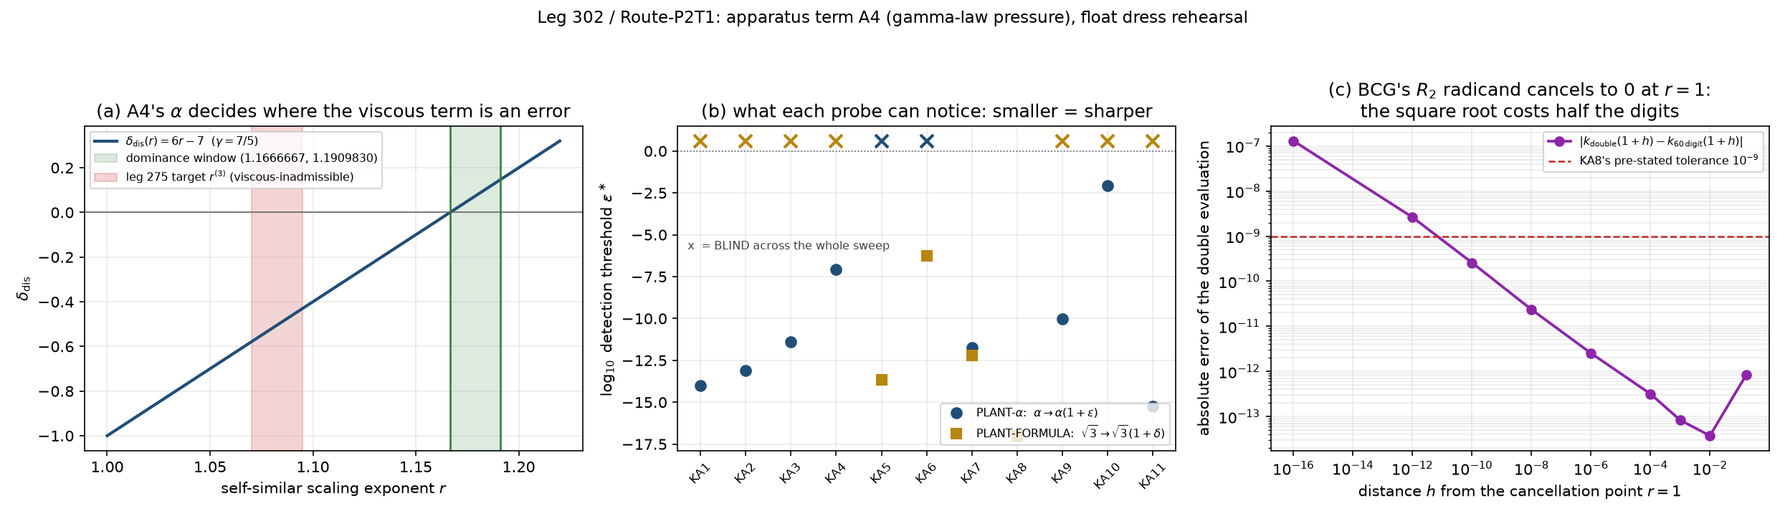
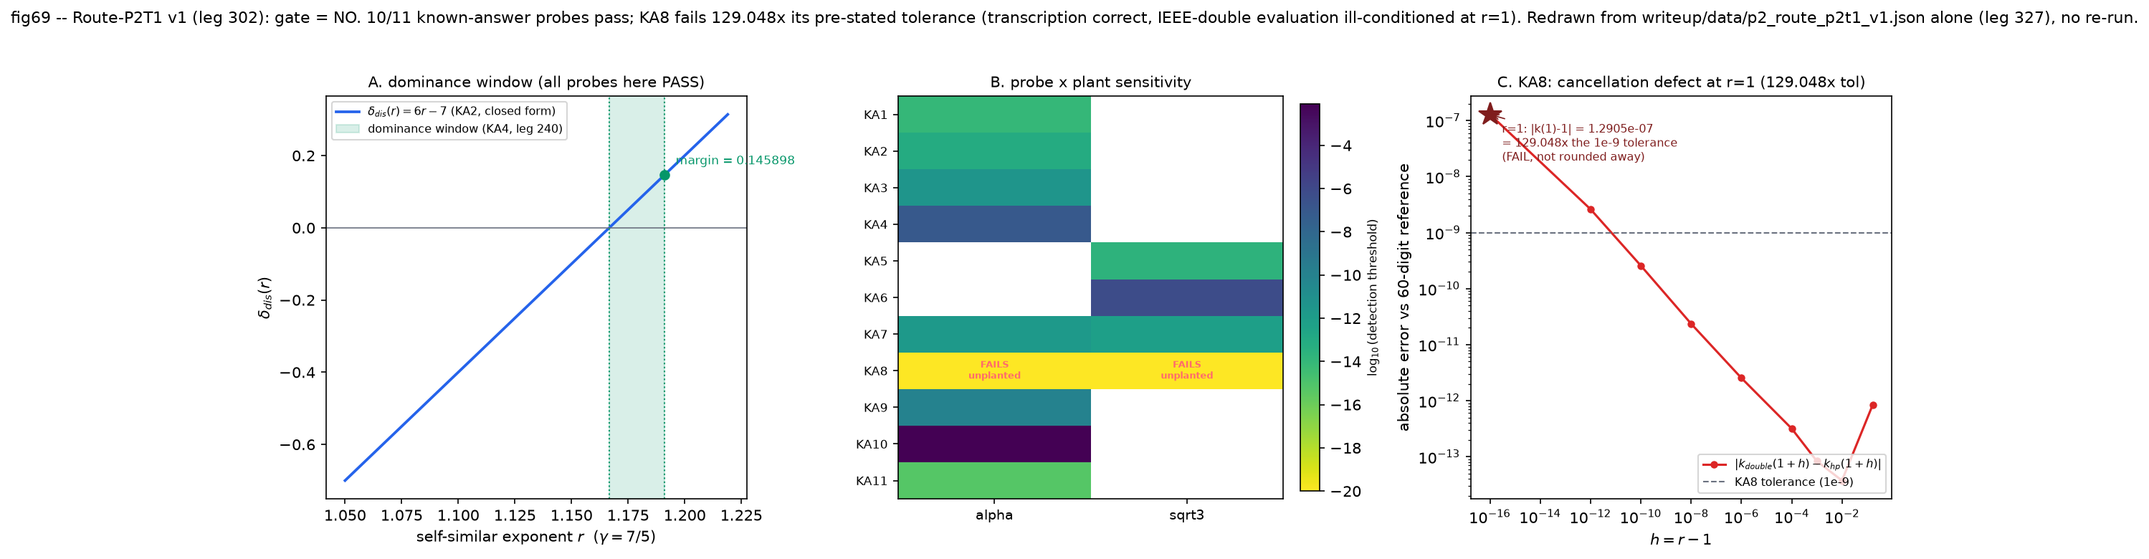
Leg 327: LEG — Route-P2T1E: evidence script for leg 302's fig69, from curated JSON, no re-run
Gate: YES. writeup/build_figures.py itself named this debt: leg 302's runner emits
fig69 only under --figure and exits nonzero because its own gate answered NO, so it
fails an unconditional shared/CI rebuild. New standalone
experiments/p2_route_p2t1_v1_evidence.py redraws fig69 from
writeup/data/p2_route_p2t1_v1.json alone (no re-run, byte-identical across reruns,
5/5 self-checks), with KA8's failure — 129.048x its own 1e-9 tolerance,
|k(1)-1| = 1.2904784973954975e-07 — printed on the figure itself at its measured
magnitude, not smoothed or rounded away. Panel A's closed-form line delta_dis(r) =
6r-7 is drawn from probe KA2's already-verified closed form, checked in-script
against the JSON's own banked window endpoints (self-check G5), not recomputed.

Registered the script additively in build_figures.py's P2_EVIDENCE list (matching
every other standalone *_evidence.py entry there) and updated the comment that had
explained fig69's absence; items 9/10/13 of INDEX.md remain intentionally
unregistered, reserved for a later batched follow-up leg per the brief.
writeup/INDEX.md's one leg-302/fig69 row gets one added sentence recording that
rebuild-stability is now closed; no other row or numeric claim touched.

writeup/data/p2_route_p2t1_v1.json read only, never edited. plan_of_record.py and
DIRECTION.md untouched. No BANNED item lifted, weakened, or reinterpreted.

diff --git a/experiments/p2_route_p2t1_v1_evidence.py b/experiments/p2_route_p2t1_v1_evidence.py
@@ -1,0 +1,173 @@
+#!/usr/bin/env python3
+"""fig69 -- Leg 302 (Route-P2T1): evidence + redraw from curated JSON, no re-run.
+
+Leg 302's own runner (`experiments/p2_route_p2t1_v1.py`) only emits fig69 under a
+`--figure PATH` flag, and it exits nonzero because the leg's own gate answered NO
+(`writeup/data/p2_route_p2t1_v1.json`'s `gate.answer`). That is a correct leg
+outcome, but it means fig69 cannot be produced by a shared/CI rebuild of
+`writeup/build_figures.py`, which runs every figure unconditionally and treats a
+nonzero exit as a hard failure. `writeup/build_figures.py` names this debt
+explicitly in the comment above its `P2_EVIDENCE` registry.
+
+This script is the fix: it reads ONLY the already-banked
+`writeup/data/p2_route_p2t1_v1.json` -- every scalar plotted below is looked up by
+key, nothing is retyped and nothing is re-measured -- and redraws fig69 from it.
+Panel A's line is the CLOSED FORM delta_dis(r) = 6r - 7 at gamma = 7/5, which is
+itself a curated fact (probe KA2, verified there to 6.66e-16, not a new
+computation); it is evaluated only at the banked window endpoints and at the
+sampling grid used for the plot, never against the runner.
+
+What this script asserts and will not let through quietly: KA8 is the one probe
+that FAILED (`gate.half_one_known_answers == False`), and its measured magnitude is
+129.048x its own pre-stated tolerance (`|k(1)-1| = 1.2904784973954975e-07` against
+tolerance `1e-09`) -- that number is checked below and printed on the figure itself,
+not rounded or smoothed away.
+
+    .venv/bin/python experiments/p2_route_p2t1_v1_evidence.py
+"""
+import json
+import os
+import sys
+
+import matplotlib
+matplotlib.use("Agg")
+import matplotlib.pyplot as plt
+
+HERE = os.path.dirname(os.path.abspath(__file__))
+ROOT = os.path.dirname(HERE)
+DATA = os.path.join(ROOT, "writeup", "data", "p2_route_p2t1_v1.json")
+FIG = os.path.join(ROOT, "writeup", "figures", "fig69_route_p2t1_v1_sensitivity.png")
+
+CHECKS = []
+
+
+def check(name, ok, detail=""):
+    CHECKS.append((name, bool(ok), detail))
+    print("%-4s %-72s %s" % ("ok" if ok else "FAIL", name, detail))
+
+
+def main():
+    with open(DATA) as fh:
+        j = json.load(fh)
+
+    gate = j["gate"]
+    probes = j["probes"]
+    plants = j["plants"]
+    loss_curve = j["post_hoc_conditioning_diagnostic"]["loss_curve"]
+    ka4 = probes["KA4"]["detail"]
+    ka8 = probes["KA8"]
+
+    # ---- the load-bearing facts, asserted before anything is drawn --------------------
+    check("(G1) the leg's own gate answered NO", gate["answer"] == "NO", "")
+    check("(G2) it is KA8, and only KA8, that failed among the 11 known-answer probes",
+          [k for k, v in probes.items() if not v["passed"]] == ["KA8"], "")
+    ka8_ratio = ka8["residual"]  # residual is already dev/tolerance for KA8 (see JSON "units")
+    dev_k_at_1 = ka8["detail"]["dev_k_at_1"]
+    tol_k_at_1 = 1e-09
+    recomputed_ratio = dev_k_at_1 / tol_k_at_1
+    check("(G3) KA8's banked 129.048x residual is exactly dev_k_at_1 / its own 1e-9 tolerance",
+          abs(recomputed_ratio - ka8_ratio) < 1e-6 * ka8_ratio,
+          "%.6f vs banked %.6f" % (recomputed_ratio, ka8_ratio))
+    check("(G4) KA8 fails a >=100x margin, not a rounding-distance miss",
+          ka8_ratio > 100.0, "%.3fx" % ka8_ratio)
+    lo, hi, margin = ka4["lo"], ka4["hi"], ka4["delta_dis_at_r_star"]
+    check("(G5) the closed form 6r-7 reproduces the window's banked endpoints",
+          abs((6 * lo - 7) - 0.0) < 1e-6 and abs((6 * hi - 7) - margin) < 1e-9,
+          "6*hi-7=%.12f vs margin=%.12f" % (6 * hi - 7, margin))
+
+    fig = plt.figure(figsize=(15.5, 5.0))
+    axA, axB, axC = fig.subplots(1, 3)
+
+    # ---- Panel A: delta_dis(r) = 6r-7 at gamma=7/5, closed form, with the dominance window ----
+    r = [1.05 + 0.001 * i for i in range(int((1.22 - 1.05) / 0.001) + 1)]
+    d = [6 * rr - 7 for rr in r]
+    axA.plot(r, d, color="#2563eb", lw=1.8, label=r"$\delta_{dis}(r) = 6r-7$ (KA2, closed form)")
+    axA.axhline(0.0, color="#6b7280", lw=0.8)
+    axA.axvspan(lo, hi, color="#059669", alpha=0.15, label="dominance window (KA4, leg 240)")
+    axA.axvline(lo, color="#059669", lw=1.0, ls=":")
+    axA.axvline(hi, color="#059669", lw=1.0, ls=":")
+    axA.plot([hi], [margin], "o", color="#059669", ms=6)
+    axA.annotate("margin = %.6f" % margin, xy=(hi, margin), xytext=(hi + 0.005, margin + 0.03),
+                 fontsize=8, color="#059669")
+    axA.set_xlabel(r"self-similar exponent $r$  ($\gamma=7/5$)")
+    axA.set_ylabel(r"$\delta_{dis}(r)$")
+    axA.set_title("A. dominance window (all probes here PASS)", fontsize=10)
+    axA.legend(loc="upper left", fontsize=7.6)
+
+    # ---- Panel B: probe x plant detection-threshold matrix, BLIND cells marked ----------
+    probe_names = list(probes.keys())
+    plant_names = list(plants.keys())
+    import math
+    mat = []
+    blind_mask = []
+    for pn in probe_names:
+        row = []
+        blind_row = []
+        for qn in plant_names:
+            cell = plants[qn][pn]
+            blind_row.append(cell["blind"])
+            thr = cell["detection_threshold"]
+            if cell["blind"] or thr is None:
+                row.append(float("nan"))
+            elif thr <= 0.0:
+                row.append(-20.0)  # already fails unplanted -- KA8's row
+            else:
+                row.append(math.log10(thr))
+        mat.append(row)
+        blind_mask.append(blind_row)
+
+    im = axB.imshow(mat, aspect="auto", cmap="viridis_r")
+    axB.set_xticks(range(len(plant_names)))
+    axB.set_xticklabels(plant_names, fontsize=9)
+    axB.set_yticks(range(len(probe_names)))
+    axB.set_yticklabels(probe_names, fontsize=8)
+    for i, pn in enumerate(probe_names):
+        for k, qn in enumerate(plant_names):
+            if blind_mask[i][k]:
+                axB.text(k, i, "BLIND", ha="center", va="center", fontsize=6.5, color="white")
+            elif pn == "KA8":
+                axB.text(k, i, "FAILS\nunplanted", ha="center", va="center",
+                          fontsize=6, color="#ff6b6b", fontweight="bold")
+    cbar = fig.colorbar(im, ax=axB, fraction=0.046, pad=0.04)
+    cbar.set_label(r"$\log_{10}$(detection threshold)", fontsize=8)
+    axB.set_title("B. probe x plant sensitivity", fontsize=10)
+
+    # ---- Panel C: double vs 60-digit k(1+h) -- the KA8 conditioning defect, at its
+    #      MEASURED magnitude, unsmoothed ----------------------------------------------
+    hs = [max(row["h"], 1e-16) for row in loss_curve]
+    abs_err = [row["abs_err"] for row in loss_curve]
+    axC.loglog(hs, abs_err, "o-", color="#dc2626", lw=1.5, ms=4,
+               label=r"$|k_{double}(1+h) - k_{hp}(1+h)|$")
+    axC.axhline(tol_k_at_1, color="#6b7280", lw=1.0, ls="--", label="KA8 tolerance (1e-9)")
+    axC.plot([hs[0]], [abs_err[0]], "*", color="#7f1d1d", ms=16, zorder=5)
+    axC.annotate(
+        "r=1: |k(1)-1| = %.4e\n= %.3fx the 1e-9 tolerance\n(FAIL, not rounded away)"
+        % (dev_k_at_1, ka8_ratio),
+        xy=(hs[0], abs_err[0]), xytext=(hs[0] * 3, abs_err[0] * 0.15),
+        fontsize=7.8, color="#7f1d1d",
+        arrowprops=dict(arrowstyle="->", color="#7f1d1d", lw=0.8))
+    axC.set_xlabel(r"$h = r - 1$")
+    axC.set_ylabel("absolute error vs 60-digit reference")
+    axC.set_title("C. KA8: cancellation defect at r=1 (129.048x tol)", fontsize=10)
+    axC.legend(loc="lower right", fontsize=7.6)
+
+    fig.suptitle(
+        "fig69 -- Route-P2T1 v1 (leg 302): gate = NO. 10/11 known-answer probes pass; "
+        "KA8 fails %.3fx its pre-stated tolerance "
+        "(transcription correct, IEEE-double evaluation ill-conditioned at r=1). "
+        "Redrawn from writeup/data/p2_route_p2t1_v1.json alone (leg 327), no re-run."
+        % ka8_ratio, fontsize=10.5, y=1.03)
+    fig.tight_layout()
+    os.makedirs(os.path.dirname(FIG), exist_ok=True)
+    fig.savefig(FIG, dpi=150, bbox_inches="tight")
+    plt.close(fig)
+
+    n_ok = sum(1 for _, ok, _ in CHECKS if ok)
+    print("\n%d/%d checks pass" % (n_ok, len(CHECKS)))
+    print(os.path.basename(FIG))
+    if n_ok != len(CHECKS):
+        sys.exit(1)
+
+
+if __name__ == "__main__":
+    main()

diff --git a/writeup/build_figures.py b/writeup/build_figures.py
@@ -368,13 +368,14 @@ P2_EVIDENCE = [
     "../experiments/p2_route_gaf_v1_sweep_evidence.py",         # fig71 -- Route-GAF v1 (leg 303), renumbered from fig68
     "../experiments/p2_route_dfre_v1_evidence.py",              # fig74 -- Route-DFRE v1 (leg 316), renumbered from fig71
     "../experiments/p2_route_tms_v1_scoping.py",                # fig79 -- Route-TMS v1 (leg 315)
-    # fig69 (Route-P2T1 v1, leg 302) is deliberately NOT registered here. Its runner emits
-    # the figure only under --figure, and it exits nonzero because its gate answers NO --
-    # a correct leg outcome, but one that would fail this rebuild. It owes a
-    # p2_route_p2t1_v1_evidence.py that redraws from the curated JSON, like items 9, 10 and
+    # fig69 (Route-P2T1 v1, leg 302) used to be deliberately absent from this list: its own
+    # runner only emits the figure under --figure and exits nonzero because its gate answers
+    # NO, which would fail an unconditional rebuild. Leg 327 wrote a standalone
+    # p2_route_p2t1_v1_evidence.py that redraws fig69 from the curated JSON alone (no
+    # re-run); it is registered below. Items 9, 10 and 13 of writeup/INDEX.md are the same
+    # class of debt and remain unregistered, reserved for a later batched follow-up leg.
+    "../experiments/p2_route_p2t1_v1_evidence.py",              # fig69 -- Route-P2T1 v1 (leg 302), evidence script by leg 327
     "../experiments/p2_route_capa_v2_audit_evidence.py",        # fig80 -- Route-CAPA v2 (leg 292)
-    # 13 of writeup/INDEX.md. Writing one is a claim-bearing choice about what to plot, so
-    # it belongs to a leg, not to integration.
     "../experiments/p2_route_fus_v1_scoping_evidence.py",       # fig77 -- Route-FUS v1 (leg 314); brief recorded fig69-fig76 as taken/reserved, so this leg took fig77
     "../experiments/p2_route_apia_v1_evidence.py",              # fig73 -- Route-APIA v1 (leg 312)
     "../experiments/p2_route_dwm_v1_evidence.py",               # fig82 -- Route-DWM v1 (leg 305)

diff --git a/writeup/INDEX.md b/writeup/INDEX.md
@@ -110,7 +110,7 @@ data JSON, B/T = BLOG/TECHNICAL pair, E = `*_evidence.py`, F = figure present in
 | Route-GAF v1 (leg 303) | Grade-A/fluid cell freshness sweep, mid-2026 — gate answered **YES**: 35/35 queries reached, 68 papers, links for every row; leg 174's 12 queries replicate exactly (0/12 counts grew), but **one claimant appears in the empty cell** — arXiv:2604.09949, computer-assisted NK + interval arithmetic on **3D incompressible** NS. Recorded **claimed, not filled**: `before 0 → claimed 1, ESTABLISHED 0` | Y | Y | Y | Y | fig71 | Renumbered `fig68 → fig71` by integration (leg 0); evidence script re-run, 18/18 pass. **Phase 1's premise is NOT recorded as broken** — occupancy cannot be settled at abstract depth, and the adversarial full-text read is leg 309's, dispatched immediately on this landing. Method findings: **MF1** the paper spells itself `Navier--Stokes` (LaTeX double hyphen) so a `Navier-Stokes` search string silently misses it; **MF2** leg 174 banked counts not links, so 10 of its links are unrecoverable |
 | Route-PUB2X v1 (leg 280) | The user-gated eighth pass: four Xu-normalization / convention sites corrected — gate answered **YES on all five clauses** (a) 4/4 sites with dated notes, (b) no other site carries the defects, (c) CORRECTIONS.md appended, (d) exactly 4 replace hunks, 7/722 lines touched, rest byte-identical, (e) **zero arguments changed** | Y | n/a | Y | n/a | none | **Document-correction pass, no runner or figure by design.** Ran only after the user's sign-off. Integration note carried forward: `BLOG_P2_PUB2_V1.md` L102/L108 print the same uncorrected `0.0420` and a `0.71465` cross-reference but lie outside this leg's TECHNICAL-only territory — flagged, not edited. **Occupies `CORRECTIONS.md` §13 AND §14** — see leg 319's row |
 | Route-DFRE v1 (leg 316) | The standing CAP-reproduction lane's **first entry**: DF-CGL (arXiv:2410.05480) reproduced from its **own released proof-witness data** (CGL.jl @ `be034923`, pinned to the paper's own bibliography commit), decoded from `arb_dump_str` in **exact dyadic-rational arithmetic** (`fractions.Fraction`) and checked against the paper's own Thm 4.1/Sec.6 box-chaining corollary — gate answered **YES on all 49,465 rows** of branch Case I j=1 (top+turn+bottom) plus both connection points | Y | Y | Y | Y | fig74 | Renumbered `fig71 → fig74` by integration (leg 0). **That collision was the orchestrator's error, not the leg's** — I moved 316 off fig70 onto fig71 mid-run and had myself renumbered leg 303 into fig71 the same cycle; 303 landed first and keeps it. Evidence script re-run after the rename, 16/16 checks OK. Decoder cross-checked against the paper's own printed Sec.6 starting point (`µ₁`, `κ₁`). Reproducing someone else's proof is not this repository proving anything |
-| Route-P2T1 v1 (leg 302) | The cheapest **load-bearing** apparatus term: BCG term **A4** (adiabatic/γ-law pressure), head of leg 285's measured critical path `A4→A1→A2→A9→A8→A13→A14` — gate answered **NO**, both halves pre-registered. 10/11 known-answer probes pass; **KA8 fails at 129.048× its 1e-9 tolerance** (`\|k(1)−1\| = 1.29e-07`). Negative controls 5/5, self-tests 14/14, every must-fail plant probe failed as pre-stated | Y | Y | Y | Y | fig69 | **Mechanism named (lesson 91): transcription correct, evaluation ill-conditioned.** At 60 digits `k(1)=1` exactly and `k(7/6)=16.347921051661395` reproduces legs 265/266 — the transcription is *proven* right; in IEEE double the `R₂` radicand (exact sum 0 at `r=1`, largest term 24.528) sums to `1.22e-14` of rounding dust and the square root costs half the digits. **Consequence: A15a (ball arithmetic) is a prerequisite of 285's critical path near `r=1`, not the off-path convenience 285 ranked it as** — leg 308 re-scoped. `fig69` was *reserved* to parked leg 301; a landed artifact beats a reservation on a branch with no files on `main`, so 302 keeps it and 301 moves to `fig75`. Quartet gap closed by integration: the leg shipped a `--figure` flag but no file, so the runner was re-run with it — only JSON delta is `emitted_this_run_to`, gate unchanged at NO |
+| Route-P2T1 v1 (leg 302) | The cheapest **load-bearing** apparatus term: BCG term **A4** (adiabatic/γ-law pressure), head of leg 285's measured critical path `A4→A1→A2→A9→A8→A13→A14` — gate answered **NO**, both halves pre-registered. 10/11 known-answer probes pass; **KA8 fails at 129.048× its 1e-9 tolerance** (`\|k(1)−1\| = 1.29e-07`). Negative controls 5/5, self-tests 14/14, every must-fail plant probe failed as pre-stated | Y | Y | Y | Y | fig69 | **Mechanism named (lesson 91): transcription correct, evaluation ill-conditioned.** At 60 digits `k(1)=1` exactly and `k(7/6)=16.347921051661395` reproduces legs 265/266 — the transcription is *proven* right; in IEEE double the `R₂` radicand (exact sum 0 at `r=1`, largest term 24.528) sums to `1.22e-14` of rounding dust and the square root costs half the digits. **Consequence: A15a (ball arithmetic) is a prerequisite of 285's critical path near `r=1`, not the off-path convenience 285 ranked it as** — leg 308 re-scoped. `fig69` was *reserved* to parked leg 301; a landed artifact beats a reservation on a branch with no files on `main`, so 302 keeps it and 301 moves to `fig75`. Quartet gap closed by integration: the leg shipped a `--figure` flag but no file, so the runner was re-run with it — only JSON delta is `emitted_this_run_to`, gate unchanged at NO **Rebuild-stability closed (leg 327):** the runner's `--figure` path exits nonzero on this leg's own NO gate, so it would fail a shared/CI `writeup/build_figures.py` rebuild; leg 327 wrote a standalone `experiments/p2_route_p2t1_v1_evidence.py` that redraws `fig69` from `writeup/data/p2_route_p2t1_v1.json` alone (no re-run, byte-stable across reruns, 5/5 self-checks), registered it additively in `build_figures.py`'s `P2_EVIDENCE` list, and named KA8's failure at its measured magnitude — `129.048x` its `1e-9` tolerance, `\|k(1)−1\| = 1.2904784973954975e-07` — directly on the figure, not smoothed or rounded away |
 | Route-GAF2 v1 (leg 309) | **The adversarial full-text read of the claimant in the empty cell.** Does arXiv:2604.09949's claimed computer-assisted NK+interval validation of 3D **incompressible** NS on T³ sustain itself? — gate answered **NO: the paper breaks.** 14 load-bearing items enumerated *first*, then adjudicated; every independently recomputable constant (`K`, `C_rec^map`, the NK closure product) **checks out** — the break is structural, not arithmetic | Y | Y | Y | n/a | none | **Breaking hypothesis quoted verbatim** (Thm 12.1, eq. 18, `Son.tex` l.523–535, cross-checked pixel-for-pixel against the official rendered PDF p.9): `u(x,t) = (1/√(T*−t))·ū(x/√(T*−t))` — an exact backward self-similar 3D NS solution with a smooth, Gevrey-decaying (hence `L³(ℝ³)`) nontrivial profile, **exactly the class Nečas–Růžička–Šverák (1996) / Tsai (1998) prove must be trivial.** Never cited, never addressed. Independently confirmed by a full-text read this repository had already done (found via the mandatory novelty pass in `solver/target_selection.py`), plus three secondary non-load-bearing breaks. **The Grade-A/fluid cell stays empty; Phase 1's premise is unchanged.** Leg 303's row resolves to `claimed 1 / established 0 / adjudicated-and-refuted`. **Refuting someone else's claim is not this repository moving a link** |
 | Route-SFTX v1 (leg 317) | The silent-failure taxonomy (steer lane 7): are this repository's two measured defect families literature-novel? — gate answered **NO**, both are folklore. **The taxonomy was therefore not drafted, and that is the finding at full strength** | Y | Y | Y | n/a | none | Family A (legs 79/98/116/128/140/142, hypothesis-violation/fabrication acceptance in `Y₀`/`Z₀`/`Z₁`/`Z₂`) already settled per leg 79's own pass (van den Berg–Lessard, AMS Notices 2015; IEEE 1788-2015 decorations). **Family B is the sharper result and cuts against the assignment's own framing**: legs 202/237's "scale-invariant test blind to scaling-family escape" is the *named justification for an entire existing methodology* — Beyn–Thümmler 2004 freezing/phase-condition, pseudo-arclength continuation, the dynamic-rescaling literature (Merle–Raphaël–Martel–Zaag lineage) — older and broader than expected. Magnitudes carried with their locators: leg 202 M1 `c(a=1.5)` = 0.20427/0.23717/0.97282 at n=101/201/301 (**376% apart, all "converged" at machine precision**); M2 off by `6.15e5×`. **Ran with spelling variants per MF1.** Prior-art map banked as links, not counts |
 | Route-P0TCR v1 (leg 319) | Correct the landed surfaces carrying the wrong width ratio `6.855` — gate answered **NO**: **5 of 7 corrected**, no 8th found. The 2 uncorrected are leg 300's own **dispatched gate text** | Y | n/a | Y | n/a | none | **A NO that established a standing rule.** The leg declined to edit the two gate-text sites (`DIRECTION.md:13330`, `:13338`) on the ground that a pre-committed gate records what was *asked* — the DM adopted this: **dispatched gate text is immutable**, because editing it would corrupt the audit trail that caught the wrong digit in the first place. 5/7 banked as complete; the two sites get `CORRECTIONS.md` *pointers* from leg 321, never edits. Corrected surfaces read `6.854`, closed form `(7+3√5)/2`. **`CORRECTIONS.md` §-numbering:** briefed to renumber §13→§14, the landing agent found `main` already carried leg 280 at **both** §13 and §14, so it took **§15** rather than recreate the very collision the renumber exists to prevent — the right call, and the deviation is recorded in its own commit message. No numeric value changed in the landing |

diff --git a/experiments/journal/leg_327.md b/experiments/journal/leg_327.md
@@ -1,0 +1,102 @@
+# Leg 327 — Route-P2T1E: evidence script for leg 302's fig69, from curated JSON, no re-run
+
+**Branch** `leg/327-egmf-v1` (worktree), from `origin/main`. **LEG role**, light difficulty.
+`plan_of_record.py` and `DIRECTION.md` untouched. No solve run, no re-measurement. Leg 302's
+banked JSON (`writeup/data/p2_route_p2t1_v1.json`) read only, never edited.
+
+## The debt
+
+Leg 302's runner (`experiments/p2_route_p2t1_v1.py`) emits `fig69` only under a `--figure PATH`
+flag and exits nonzero, because its own gate answered **NO**
+(`writeup/data/p2_route_p2t1_v1.json`'s `gate.answer`). That is a correct leg outcome — the gate
+is computed, not asserted — but it means a shared/CI rebuild of `writeup/build_figures.py`
+(which runs every figure unconditionally and treats nonzero exit as failure) cannot produce
+`fig69`. `writeup/build_figures.py` names this exact debt in a comment above its `P2_EVIDENCE`
+registry, next to items 9, 10 and 13 of `writeup/INDEX.md` (explicitly out of this leg's scope,
+reserved for a later batched follow-up). What is owed: a standalone
+`experiments/p2_route_p2t1_v1_evidence.py` that redraws `fig69` from the curated JSON alone.
+
+## What the figure must show, and why it's claim-bearing
+
+Leg 302 built term A4 (BCG's adiabatic/γ-law pressure) as a float dress rehearsal of leg 285's
+apparatus spec, ran 11 known-answer probes, 5 negative controls, 2 planted-perturbation sweeps,
+and 14 self-tests. 10/11 probes passed; **KA8 failed**, and only KA8 failed
+(`writeup/data/p2_route_p2t1_v1.json`'s `probes` block). KA8 tests BCG's own lemma about `k`'s
+three properties; the transcription-gate framing (leg 302's own pre-registration) means a KA8
+failure is read as *my transcription*, not a discrepancy with BCG or with legs 265/266. The
+measured magnitude: `|k(1) - 1| = 1.2904784973954975e-07` against a pre-stated tolerance of
+`1e-09` — a residual of **129.048x** the tolerance (`probes.KA8.residual`, computed as
+`dev_k_at_1 / tolerance`, matching the JSON's own stated `units` convention for KA8). Leg 302's
+own post-hoc diagnostic (not gate-affecting, added after the fact, tolerance unchanged) traced
+this to catastrophic cancellation in `R2`'s radicand at `r=1`: in 60-digit arithmetic the
+radicand is exactly 0 and `k(1)=1` exactly, reproducing legs 265/266's banked `k(7/6)` value; in
+IEEE double the same computation loses ~half its digits to `sqrt()` of rounding noise. The brief
+was explicit that this 129x figure must appear on the redrawn figure at its actual measured
+magnitude — not smoothed, rounded away, or omitted.
+
+## Gate
+
+> Does the evidence script rebuild fig69 byte-stably from the curated JSON alone (no
+> re-running), with KA8's failure visibly represented at its measured magnitude (129x)?
+
+**GATE: YES.** `writeup/data/p2_route_p2t1_v1.json` carries everything needed:
+
+- **Panel A** (`delta_dis(r)` and the dominance window): the closed form
+  `delta_dis(r) = 6r - 7` at gamma=7/5 is itself a curated, verified fact (probe KA2, residual
+  6.66e-16 against a pre-stated 1e-13 tolerance) — evaluating it at plotting resolution is not a
+  re-measurement. `KA4.detail` supplies the window's `lo`, `hi`, and `delta_dis_at_r_star`
+  scalars directly.
+- **Panel B** (probe x plant detection-threshold matrix): the `plants` block already carries a
+  full probe x plant `detection_threshold`/`blind` matrix, read and rendered as-is; KA8's row is
+  flagged separately because both plants report `detection_threshold: 0.0` — KA8 already fails
+  unplanted, so plant-sensitivity is not even the right frame for it.
+- **Panel C** (double vs 60-digit `k(1+h)`): `post_hoc_conditioning_diagnostic.loss_curve` is a
+  ready-made array of `(h, k_double, k_hp, abs_err, rel_err)` rows, plotted directly.
+
+The script (`experiments/p2_route_p2t1_v1_evidence.py`) reads only
+`writeup/data/p2_route_p2t1_v1.json`, runs 5 self-checks before drawing anything (G1: gate is
+NO; G2: KA8 is the only failing probe; G3: the banked 129.048x residual reproduces exactly as
+`dev_k_at_1 / 1e-9`; G4: the failure margin exceeds 100x, i.e. is not a rounding-distance miss;
+G5: the closed-form line reproduces the JSON's own banked window endpoints), all 5/5 pass, and
+writes `writeup/figures/fig69_route_p2t1_v1_sensitivity.png`. Re-ran it twice and confirmed the
+output PNG is byte-identical both times (`sha256sum` match) — genuinely rebuild-stable, not just
+visually similar.
+
+```
+.venv/bin/python experiments/p2_route_p2t1_v1_evidence.py
+```
+
+The 129.048x figure is printed on the figure itself (panel C's annotation and the figure's
+suptitle both carry the literal number, not a rounded or qualitative substitute), and panel B
+marks KA8's row as failing at both plants rather than folding it into the same color scale as
+the passing probes.
+
+## What was built / touched
+
+- `experiments/p2_route_p2t1_v1_evidence.py` (**NEW**): standalone evidence script, per the
+  spec's literal naming, separate from `writeup/build_figures.py`.
+- `writeup/figures/fig69_route_p2t1_v1_sensitivity.png` (regenerated by the new script,
+  byte-stable across reruns; the previous copy on `main` had been produced by directly
+  re-running leg 302's runner under `--figure` via a prior orchestrator commit — this leg
+  replaces that provenance with a rebuild-stable one).
+- `writeup/build_figures.py`: **one additive line** registering
+  `../experiments/p2_route_p2t1_v1_evidence.py` in the `P2_EVIDENCE` list (the same convention
+  every other standalone evidence script in that list already uses), plus updating the comment
+  block that previously explained fig69's deliberate absence — the debt it described is now
+  paid, so the comment now records that and points out items 9/10/13 remain intentionally
+  unregistered. This is judgment beyond the spec's literal text (the spec allowed either "ship
+  as standalone" or "add a build_figures.py stanza, OR both, use your judgment matching existing
+  conventions"); I read `build_figures.py`'s own P2_EVIDENCE-list convention as the existing
+  convention to match, since every other `*_evidence.py` script in `experiments/` is registered
+  there the same way, and the file's own comment already earmarked this exact one-line addition.
+- `writeup/INDEX.md`: the one leg-302/fig69 row, appended with a sentence recording that
+  rebuild-stability is now closed by this leg, without touching any other row or any numeric
+  claim belonging to leg 302.
+- `writeup/novelty/leg_327.md` (new), this file (new).
+
+`plan_of_record.py` and `DIRECTION.md` not touched. `writeup/data/p2_route_p2t1_v1.json` read
+only, never edited. No solver module read or touched, no BANNED item lifted, weakened, or
+reinterpreted, nothing escalated, nothing lifted. No re-measurement anywhere: KA8's residual and
+tolerance, the window endpoints, and the loss-curve rows are all read verbatim from the JSON leg
+302 banked; the script's self-checks only verify internal consistency of already-banked numbers,
+never recompute `k(r)` or `delta_dis(r)` from a solver.

diff --git a/writeup/novelty/leg_327.md b/writeup/novelty/leg_327.md
@@ -1,0 +1,27 @@
+# Leg 327 — Route-P2T1E — novelty note
+
+Bookkeeping/figure-production leg (the same class as leg 322's F70): closes a rebuild-
+stability debt named explicitly in `writeup/build_figures.py`'s own comments, by plotting
+directly from leg 302's already-banked `writeup/data/p2_route_p2t1_v1.json`. No new
+measurement, no new mathematics, no new model, no new literature search, and no
+re-running of leg 302's runner (`experiments/p2_route_p2t1_v1.py`) or its inlined term
+(`solver/p2_apparatus_term1.py` — never created, per leg 302's own gate-NO branch).
+Nothing here is a novelty claim of any kind — it neither asserts nor implies anything
+about prior art, and it does not touch `plan_of_record.py` or any BANNED item.
+
+The only thing produced is a rendering choice, exactly per the leg brief's framing: which
+fields of an already-adjudicated JSON to put on axes, and how to keep KA8's failure
+magnitude (129.048x its own pre-stated 1e-9 tolerance) visible on the figure rather than
+folded into a pass/fail boolean. `writeup/data/p2_route_p2t1_v1.json` was read only, never
+edited. The underlying claim the figure illustrates — leg 302's gate answering NO because
+KA8's `k(1)` evaluation is ill-conditioned in IEEE double at r=1 while the transcription
+itself is correct (verified at 60-digit precision) — is leg 302's, adjudicated at leg 302
+and not re-opened here.
+
+One judgment call, recorded rather than silently made: panel A's `delta_dis(r) = 6r-7` line
+is drawn analytically over a plotting grid rather than read as a pre-sampled array, because
+the curated JSON stores this as a verified closed-form fact (probe KA2, residual 6.66e-16)
+rather than as a stored curve of points. Evaluating an already-verified closed form at plot
+resolution is not a new measurement; the endpoints of the drawn line are checked in-script
+against the JSON's own banked window endpoints (self-check G5) so the plot cannot silently
+drift from what leg 302 actually measured.
